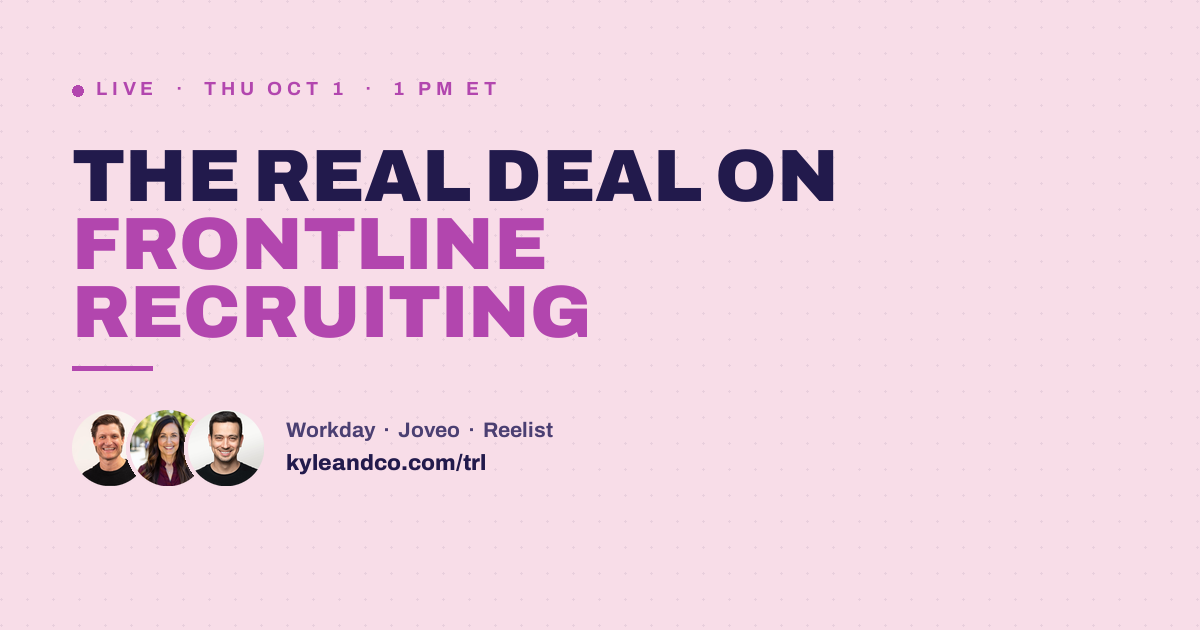
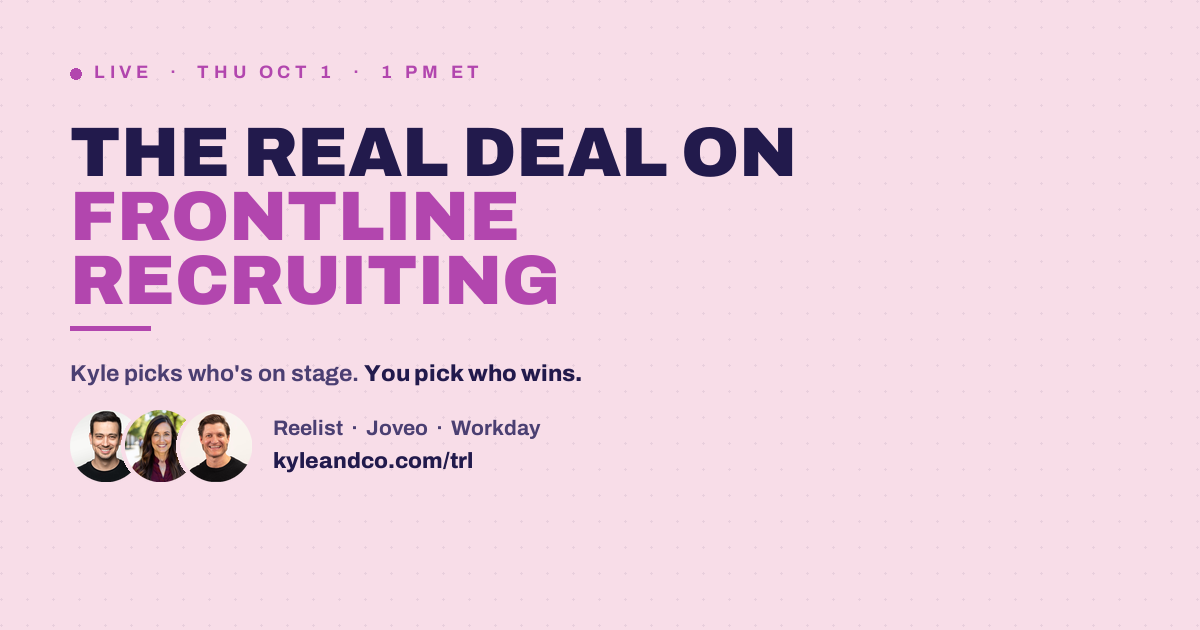
TRL Live: new copy framing from the updated promo kit
The session is now framed as three vendors solving the same problem
different ways, with an audience vote, rather than a general panel.

- Left column: the two-paragraph setup, then "How TRL works" as five
  steps. The vote (05) gets the kit's navy callout treatment since it is
  the hook: Kyle picks who's on stage, you pick who wins.
- Panel becomes rows in the kit's order (Sean, Deb, Josh) carrying each
  vendor's one-line description. Josh Secrest is confirmed as Workday,
  which resolves the earlier Paradox conflict in the kit's favour of the
  copy doc.
- Hot seat silhouette drops the question mark; the bust reads better at
  62px on its own.
- Right rail sticks on wide screens so the form stays reachable.
- Social card rebuilt for the new hook and vendor order.

diff --git a/trl/index.html b/trl/index.html
@@ -14,20 +14,20 @@
 </script>
 
 <title>The Real Deal on Frontline Recruiting &middot; Transformation Realness Live</title>
-<meta name="description" content="Transformation Realness Live with Kyle Lagunas. Thursday, October 1 at 1:00 PM ET. You have more applicants than ever and still can't staff a Saturday shift. Free to attend.">
+<meta name="description" content="Transformation Realness Live with Kyle Lagunas. Thursday, October 1 at 1:00 PM ET. Three vendors building frontline hiring technology, the same questions answered live, and you vote on the best answer. Free to attend.">
 <link rel="canonical" href="https://kyleandco.com/trl/">
 
 <meta property="og:type" content="website">
 <meta property="og:url" content="https://kyleandco.com/trl/">
 <meta property="og:title" content="The Real Deal on Frontline Recruiting">
-<meta property="og:description" content="Thursday, October 1 at 1:00 PM ET. You have more applicants than ever and still can't staff a Saturday shift. Kyle Lagunas with Josh Secrest, Deb Andrychuk, and Sean Worden.">
-<meta property="og:image" content="https://kyleandco.com/assets/img/trl/og-frontline.png?v=2">
+<meta property="og:description" content="Thursday, October 1 at 1:00 PM ET. Three vendors, the same questions, answered live side by side. Kyle picks who's on stage. You pick who wins.">
+<meta property="og:image" content="https://kyleandco.com/assets/img/trl/og-frontline.png?v=3">
 <meta property="og:image:width" content="1200">
 <meta property="og:image:height" content="630">
 <meta name="twitter:card" content="summary_large_image">
 <meta name="twitter:title" content="The Real Deal on Frontline Recruiting">
-<meta name="twitter:description" content="Thursday, October 1 at 1:00 PM ET. You have more applicants than ever and still can't staff a Saturday shift.">
-<meta name="twitter:image" content="https://kyleandco.com/assets/img/trl/og-frontline.png?v=2">
+<meta name="twitter:description" content="Thursday, October 1 at 1:00 PM ET. Three vendors, the same questions, answered live. You pick who wins.">
+<meta name="twitter:image" content="https://kyleandco.com/assets/img/trl/og-frontline.png?v=3">
 
 <link rel="icon" type="image/png" href="/favicon.png">
 <link rel="preconnect" href="https://fonts.googleapis.com">
@@ -127,36 +127,47 @@ a{color:inherit}
   font-size:.68rem;font-weight:700;letter-spacing:.26em;text-transform:uppercase;
   color:var(--magenta);margin-bottom:.9rem;
 }
+.ctx__note{font-size:.95rem;line-height:1.55;color:var(--purple);margin-bottom:1.1rem;max-width:50ch}
+.ctx__note b{font-weight:800;color:var(--indigo)}
 .list{list-style:none;border-top:1px solid rgba(34,26,76,.15)}
 .list li{
-  display:flex;gap:1.1rem;align-items:flex-start;
-  padding:1.05rem 0;border-bottom:1px solid rgba(34,26,76,.15);
-  font-size:1rem;line-height:1.45;color:var(--indigo);
+  display:flex;gap:1rem;align-items:flex-start;
+  padding:.85rem 0;border-bottom:1px solid rgba(34,26,76,.15);
+  font-size:.95rem;line-height:1.5;color:var(--purple);
 }
-.list .n{font-weight:800;color:var(--magenta);flex:none;width:1.6rem}
-.ctx__cta{margin-top:1.9rem}
+.list .n,.vote .n{font-weight:800;color:var(--magenta);flex:none;width:1.5rem}
+.list b{font-weight:800;color:var(--indigo)}
+.vote{
+  display:flex;gap:1rem;align-items:flex-start;margin-top:.8rem;
+  background:var(--indigo);border-radius:10px;padding:1.1rem 1.25rem;
+  font-size:.95rem;line-height:1.5;color:var(--pink-light);
+}
+.vote .n{color:var(--pink-soft)}
+.vote b{font-weight:800;color:var(--pink-soft)}
+.ctx__cta{margin-top:1.75rem}
 
 /* ----- right: panel + form ----- */
 .rail{display:flex;flex-direction:column;gap:1.5rem}
+@media (min-width:1061px){ .rail{position:sticky;top:74px} }
 .panelbox{background:var(--white);border-radius:14px;padding:1.6rem}
 .panelbox .eyebrow{margin-bottom:.35rem}
 .panelbox__host{font-size:.88rem;color:var(--purple);margin-bottom:1.15rem}
 .panelbox__host b{font-weight:800;color:var(--indigo)}
-.people{display:grid;grid-template-columns:repeat(4,1fr);gap:.8rem}
-.person{display:flex;flex-direction:column;gap:.5rem;min-width:0}
+.people{display:flex;flex-direction:column}
+.person{
+  display:grid;grid-template-columns:62px minmax(0,1fr);gap:.95rem;align-items:start;
+  padding:.85rem 0;border-top:1px solid rgba(34,26,76,.13);
+}
+.person:first-child{border-top:0;padding-top:.15rem}
 .person img,.person .sil{
-  width:100%;height:auto;aspect-ratio:1;object-fit:cover;object-position:center top;
-  border-radius:10px;background:var(--magenta);display:block;
+  width:62px;height:auto;aspect-ratio:1;object-fit:cover;object-position:center top;
+  border-radius:9px;background:var(--magenta);display:block;
 }
-.person .sil{background:var(--indigo);padding:0}
-.person__name{font-size:.82rem;font-weight:800;line-height:1.15;letter-spacing:-.01em}
-.person__org{font-size:.74rem;color:var(--purple);line-height:1.25}
+.person .sil{background:var(--indigo)}
+.person__name{font-size:.92rem;font-weight:800;line-height:1.2;letter-spacing:-.01em;margin-bottom:.15rem}
+.person__desc{font-size:.8rem;line-height:1.45;color:var(--purple)}
+.person__desc b{font-weight:800;color:var(--magenta)}
 .person--mystery .person__name{color:var(--magenta)}
-.hotseat{
-  margin-top:1.1rem;padding-top:1rem;border-top:1px solid rgba(34,26,76,.15);
-  font-size:.88rem;line-height:1.5;color:var(--purple);
-}
-.hotseat b{font-weight:800;color:var(--indigo)}
 
 /* form card */
 .card{background:var(--white);border-radius:14px;padding:1.75rem}
@@ -211,9 +222,6 @@ a{color:inherit}
 }
 @media (max-width:560px){
   .wrap{padding:0 1.25rem}
-  .people{grid-template-columns:repeat(2,1fr);gap:1rem}
-  .person__name{font-size:.9rem}
-  .person__org{font-size:.8rem}
   .f__row{grid-template-columns:1fr}
 }
 </style>
@@ -236,15 +244,22 @@ a{color:inherit}
     <span class="eyebrow">Transformation Realness Live</span>
     <h1>The Real Deal on <b>Frontline Recruiting</b></h1>
     <hr class="rule">
-    <p class="ctx__sub">You have more applicants than ever and still can't staff a Saturday shift. Kyle Lagunas and three frontline hiring leaders get into why corporate hiring rules keep losing shifts, and what to fix first.</p>
+    <p class="ctx__sub">Frontline hiring doesn't work like corporate hiring with more applicants. It runs on different rules, and the employers applying corporate assumptions to it are the ones losing shifts.</p>
+    <p class="ctx__sub">This Thursday, Kyle Lagunas goes live with three vendors building frontline hiring technology. Each company is solving the same problem a different way.</p>
     <p class="ctx__meta">Thursday, October 1 &middot; 1:00 PM ET &middot; Live stream &middot; 60 minutes</p>
 
-    <p class="ctx__label">What we'll get into</p>
-    <ul class="list">
-      <li><span class="n">01</span><span>Speed as the quality strategy for hourly hiring, and where "fastest wins" breaks down for nurses, CDL drivers, and shift managers.</span></li>
-      <li><span class="n">02</span><span>Whether you have an applicant problem or an after-they-apply problem.</span></li>
-      <li><span class="n">03</span><span>Where the human moment belongs once screening, scheduling, and offers are automated.</span></li>
-    </ul>
+    <p class="ctx__label">How TRL works</p>
+    <p class="ctx__note">Vendors usually explain their technology in their own collateral and release notes. On TRL, three of them explain it side by side, take the same questions live, and answer to each other. <b>Kyle picks who's on stage. You pick who wins.</b></p>
+    <ol class="list">
+      <li><span class="n">01</span><span><b>The research.</b> Kyle opens with new data on the state of frontline hiring.</span></li>
+      <li><span class="n">02</span><span><b>The 1:1s.</b> Each guest explains the problem their company is solving and how their approach works.</span></li>
+      <li><span class="n">03</span><span><b>The panel.</b> All three on camera, four questions, and room to disagree.</span></li>
+      <li><span class="n">04</span><span><b>The hot seat.</b> A surprise guest asks one question. Each panelist gets 90 seconds to answer. Then your questions from the chat.</span></li>
+    </ol>
+    <div class="vote">
+      <span class="n">05</span>
+      <span><b>The vote.</b> You pick the best answer. The winner gets a full episode of the Transformation Realness podcast and brings a guest of their choice.</span>
+    </div>
 
     <div class="ctx__cta"><a class="btn" href="#register" data-track="ctx-register">Save your seat</a></div>
   </section>
@@ -258,47 +273,44 @@ a{color:inherit}
 
       <div class="people">
         <article class="person">
-          <img src="/assets/img/trl/josh-secrest.jpg" alt="Josh Secrest" width="300" height="300">
-          <div>
-            <p class="person__name">Josh Secrest</p>
-            <p class="person__org">Workday</p>
+          <img src="/assets/img/trl/sean-worden.jpg" alt="Sean Worden" width="300" height="300">
+          <div class="person__body">
+            <p class="person__name">Sean Worden</p>
+            <p class="person__desc"><b>Reelist.</b> Builds job ads for TikTok, Snapchat, and Facebook that are trackable through to conversion.</p>
           </div>
         </article>
         <article class="person">
           <img src="/assets/img/trl/deb-andrychuk.jpg" alt="Deb Andrychuk" width="300" height="300">
-          <div>
+          <div class="person__body">
             <p class="person__name">Deb Andrychuk</p>
-            <p class="person__org">Joveo</p>
+            <p class="person__desc"><b>Joveo.</b> Ran high-volume hiring at Lowe's. Joveo has run recruitment media since 2017 and uses that data to find where hiring funnels stall.</p>
           </div>
         </article>
         <article class="person">
-          <img src="/assets/img/trl/sean-worden.jpg" alt="Sean Worden" width="300" height="300">
-          <div>
-            <p class="person__name">Sean Worden</p>
-            <p class="person__org">Reelist</p>
+          <img src="/assets/img/trl/josh-secrest.jpg" alt="Josh Secrest" width="300" height="300">
+          <div class="person__body">
+            <p class="person__name">Josh Secrest</p>
+            <p class="person__desc"><b>Workday.</b> Automates everything in hourly hiring except the interview.</p>
           </div>
         </article>
         <article class="person person--mystery">
           <svg class="sil" viewBox="0 0 100 100" role="img" aria-label="Silhouette of an unannounced guest">
             <rect width="100" height="100" fill="#221A4C"></rect>
-            <circle cx="50" cy="38" r="17" fill="#B246AE"></circle>
-            <path d="M16 100c0-19.9 15.2-33 34-33s34 13.1 34 33z" fill="#B246AE"></path>
-            <text x="50" y="47" text-anchor="middle" font-family="Archivo, sans-serif" font-size="24" font-weight="900" fill="#221A4C">?</text>
+            <circle cx="50" cy="35" r="18" fill="#B246AE"></circle>
+            <path d="M12 100c0-21.5 17-35.5 38-35.5S88 78.5 88 100z" fill="#B246AE"></path>
           </svg>
-          <div>
+          <div class="person__body">
             <p class="person__name">The Hot Seat</p>
-            <p class="person__org">Surprise guest</p>
+            <p class="person__desc"><b>Surprise guest.</b> One question, 90 seconds each, then the floor is yours.</p>
           </div>
         </article>
       </div>
-
-      <p class="hotseat">The last 10 minutes go to <b>your questions</b>, plus one from a surprise guest in the hot seat.</p>
     </section>
 
     <section class="card" id="register">
       <div id="regView">
         <h2>Save your seat</h2>
-        <p class="card__sub">Free to attend. Takes about fifteen seconds.</p>
+        <p class="card__sub">Watch live, bring your questions, and cast your vote.</p>
 
         <iframe name="trl_sink" class="sink" tabindex="-1" aria-hidden="true" title="registration"></iframe>
 
